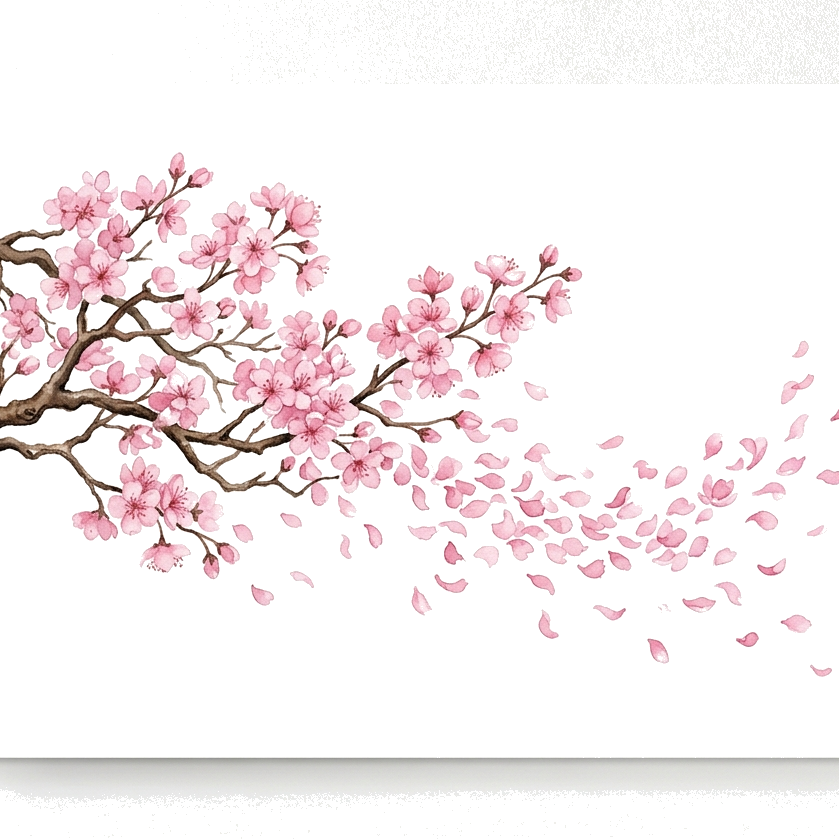
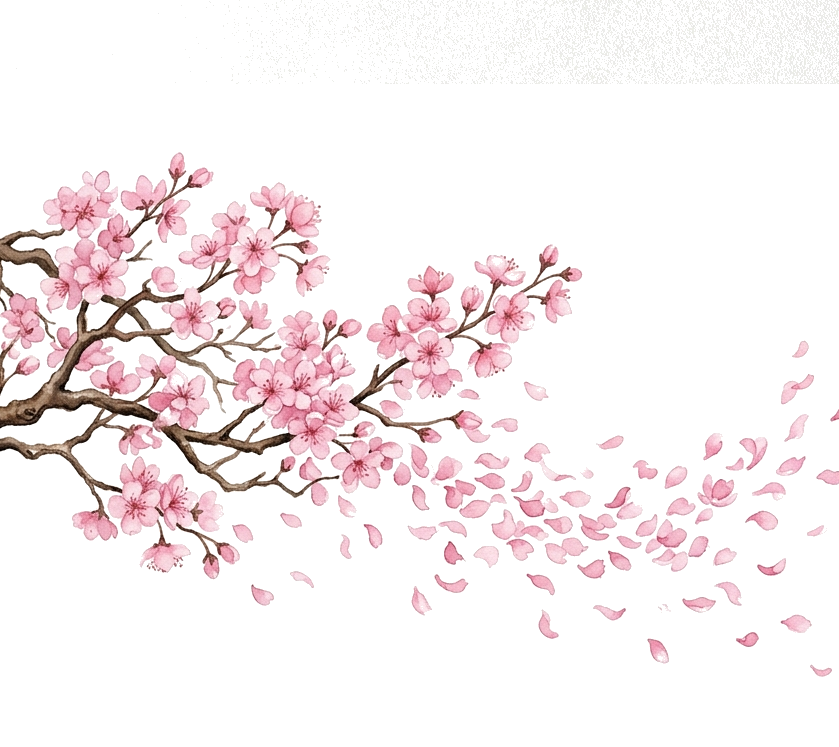
remove bottom shadow line from sakura branch and reposition swallow bird to right of branch

diff --git a/src/app/page.tsx b/src/app/page.tsx
@@ -27,23 +27,23 @@ export default function Home() {
             src="/images/sakura-top.png"
             alt="Sakura branch"
             width={839}
-            height={839}
+            height={747}
             className="h-auto w-full object-contain origin-top-left"
             priority
           />
         </div>
 
-        {/* Flying Swallow Bird - floating on the right side, transparent background */}
+        {/* Flying Swallow Bird - repositioned to be right next to the sakura branch above the petals */}
         <motion.div
-          initial={{ opacity: 0, x: 50, y: -20 }}
+          initial={{ opacity: 0, x: 30, y: -10 }}
           animate={{ opacity: 1, x: 0, y: 0 }}
           transition={{ duration: 1.2, ease: "easeOut", delay: 0.5 }}
-          className="absolute right-8 top-32 w-[90px] pointer-events-none z-20 select-none"
+          className="absolute left-[54%] top-[55px] w-[75px] pointer-events-none z-20 select-none"
         >
           <motion.div
             animate={{ 
-              y: [0, -6, 0],
-              x: [0, 4, 0],
+              y: [0, -5, 0],
+              x: [0, 3, 0],
               rotate: [0, -2, 0]
             }}
             transition={{ 
